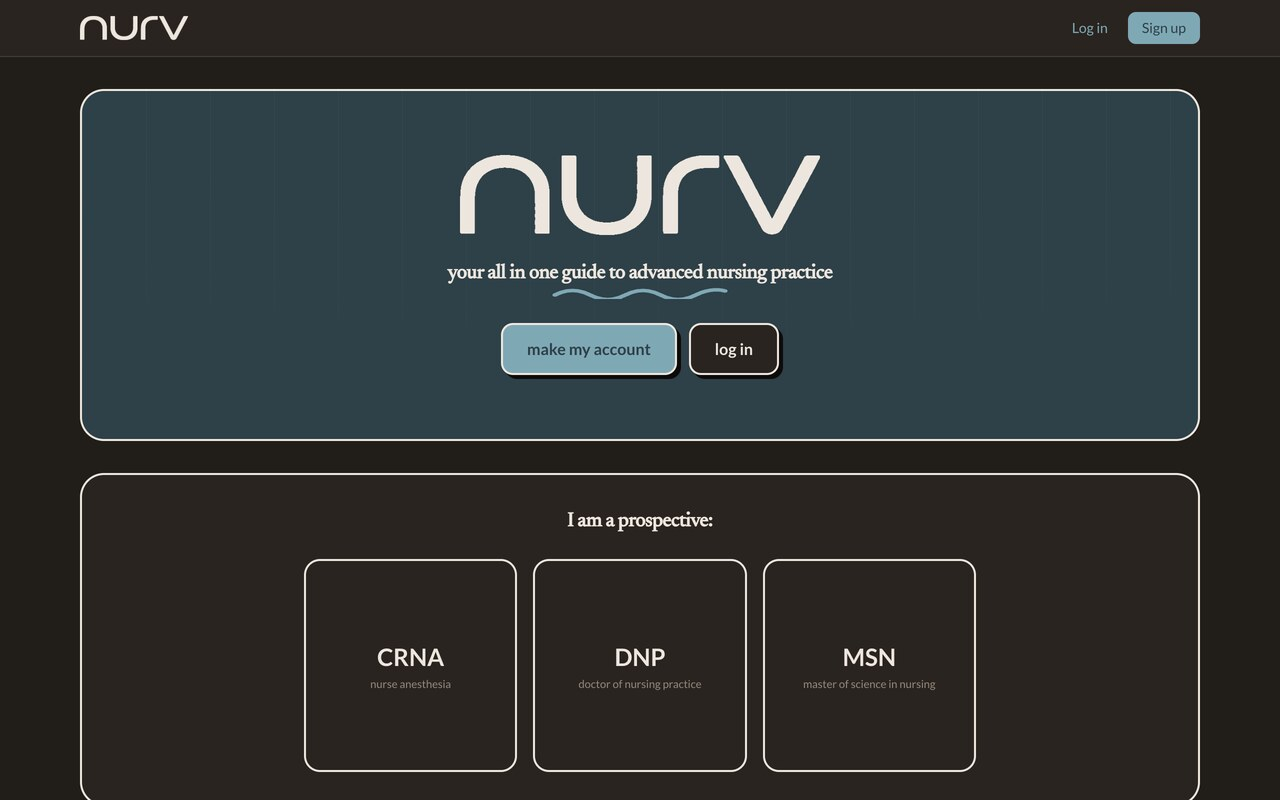
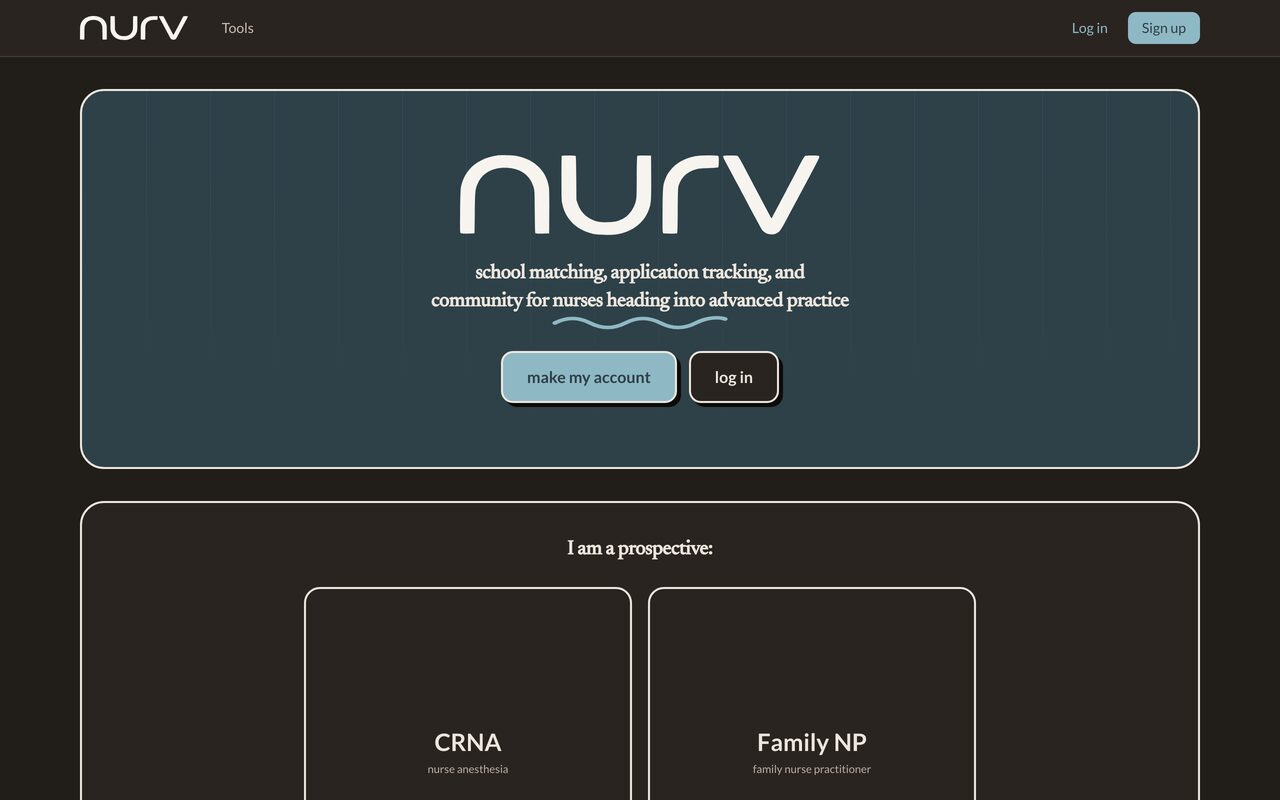
nurv: refresh screenshots

diff --git a/index.html b/index.html
@@ -150,7 +150,7 @@
                       <source srcset="images/projects/nurv-view-dark.webp" type="image/webp" media="(prefers-color-scheme: dark)">
                       <source srcset="images/projects/nurv-view-dark.jpg" type="image/jpeg" media="(prefers-color-scheme: dark)">
                       <source srcset="images/projects/nurv-view-light.webp" type="image/webp">
-                      <img src="images/projects/nurv-view-light.jpg" width="1280" height="800" loading="lazy" decoding="async" alt="nurv landing page: the nurv wordmark and tagline 'your all in one guide to advanced nursing practice' above account buttons, with crna, dnp, and msn track cards below">
+                      <img src="images/projects/nurv-view-light.jpg" width="1280" height="800" loading="lazy" decoding="async" alt="nurv landing page: the nurv wordmark and tagline 'school matching, application tracking, and community for nurses heading into advanced practice' above account buttons, with crna and family np track cards below">
                     </picture>
                   </a>
                   <p class="project-desc">an application tracker that pushes deadlines into a calendar with .ics export, community chatting channels, and a built in study plan.</p>
